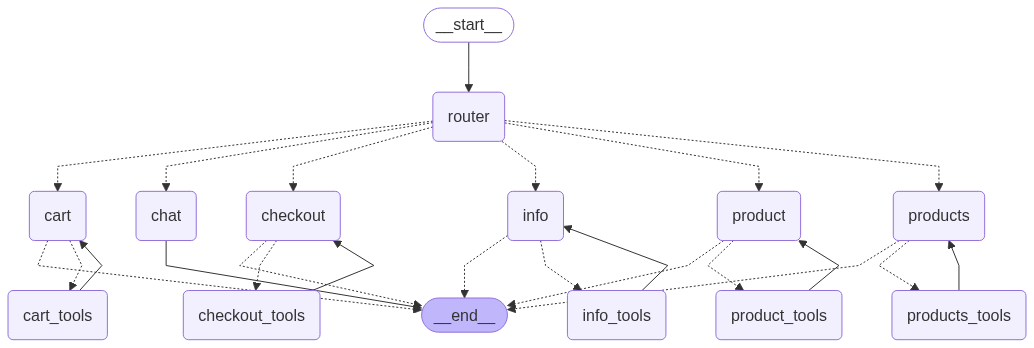
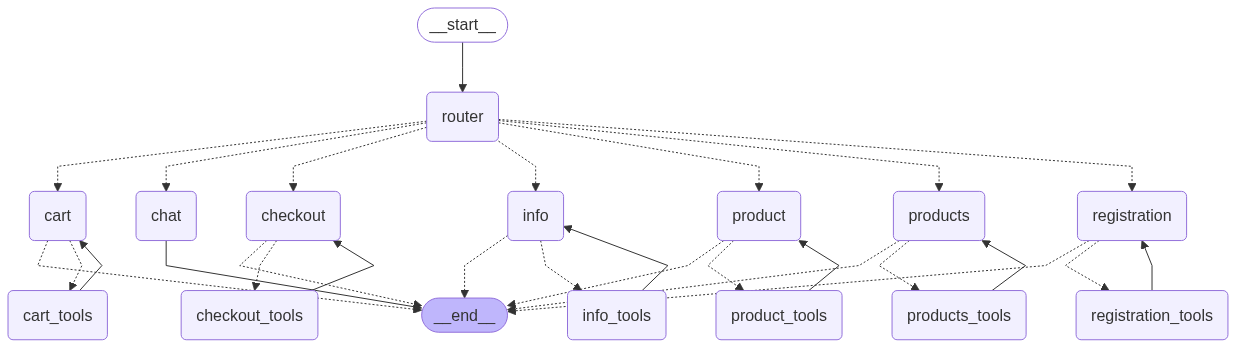
Registraton tools, and messages display

diff --git a/api/src/agents/agents.py b/api/src/agents/agents.py
@@ -1,4 +1,3 @@
-import asyncio
 from enum import Enum
 from typing import Any, AsyncGenerator, Dict, Tuple, cast
 
@@ -13,6 +12,8 @@ from agents.product.productAgent import ProductAgent
 from agents.product.productTools import Product_tools
 from agents.products.productsAgent import ProductsAgent
 from agents.products.productsTools import Products_tools
+from agents.registration.registerationTools import Registration_tools
+from agents.registration.registrationAgent import RegistrationAgent
 from agents.router.routerAgent import RouterAgent, Routes
 from domain.state import GlobalState
 from langchain_core.messages import AIMessage
@@ -24,6 +25,7 @@ from langgraph.prebuilt import ToolNode
 
 
 class Tools(Enum):
+    REGISTRATION = "registration_tools"
     PRODUCTS = "products_tools"
     PRODUCT = "product_tools"
     INFO = "info_tools"
@@ -68,6 +70,10 @@ class Agents:
     def _addNodes(self):
         self.state_graph.add_node(Routes.ROUTER.value, self.router.create)
         self.state_graph.add_node(
+            Routes.REGISTRATION.value,
+            RegistrationAgent(self.model, self.api_key).create,
+        )
+        self.state_graph.add_node(
             Routes.PRODUCTS.value, ProductsAgent(self.model, self.api_key).create
         )
         self.state_graph.add_node(
@@ -87,12 +93,14 @@ class Agents:
         )
 
     def _addToolNodes(self):
+        registration_tools_node = ToolNode(tools=Registration_tools)
         products_tools_node = ToolNode(tools=Products_tools)
         product_tool_node = ToolNode(tools=Product_tools)
         info_tool_node = ToolNode(tools=Info_tools)
         checkout_tool_node = ToolNode(tools=Checkout_tools)
         cart_tool_node = ToolNode(tools=Cart_tools)
 
+        self.state_graph.add_node(Tools.REGISTRATION.value, registration_tools_node)
         self.state_graph.add_node(Tools.PRODUCTS.value, products_tools_node)
         self.state_graph.add_node(Tools.PRODUCT.value, product_tool_node)
         self.state_graph.add_node(Tools.INFO.value, info_tool_node)
@@ -105,6 +113,7 @@ class Agents:
             Routes.ROUTER.value,
             self.router.router_conditional_edge,
             {
+                Routes.REGISTRATION.value: Routes.REGISTRATION.value,
                 Routes.PRODUCT.value: Routes.PRODUCT.value,
                 Routes.PRODUCTS.value: Routes.PRODUCTS.value,
                 Routes.CART.value: Routes.CART.value,
@@ -117,6 +126,7 @@ class Agents:
     """ Helpers """
 
     def _addToolsEdges(self):
+        self._addToolsEdge(Routes.REGISTRATION, Tools.REGISTRATION)
         self._addToolsEdge(Routes.PRODUCTS, Tools.PRODUCTS)
         self._addToolsEdge(Routes.PRODUCT, Tools.PRODUCT)
         self._addToolsEdge(Routes.INFO, Tools.INFO)
@@ -124,6 +134,7 @@ class Agents:
         self._addToolsEdge(Routes.CART, Tools.CART)
 
     def _addToolsEdge(self, route: Routes, tool: Tools):
+        print(f"Adding tool edge for {route.value} with tool {tool.value}")
         self.state_graph.add_conditional_edges(
             route.value,
             self._custom_route_tools(tool.value),
@@ -154,7 +165,17 @@ class Agents:
         aiMessage = cast(AIMessage, metadata[0])
         content = cast(str, aiMessage.content)
 
+        node_names = [route.value for route in Routes] + [tool.value for tool in Tools]
+        if content in node_names:
+            return None, None
+
+        if hasattr(aiMessage, "tool_calls") and len(aiMessage.tool_calls) > 0:
+            return None, None
+
         if content == "" or content == "chat":
+            return None, None
+
+        if hasattr(aiMessage, "tool_call_id") and aiMessage.tool_call_id:
             return None, None
 
         return {"id": messageId, "role": "assistant", "content": content}, None

diff --git a/api/src/agents/registration/registrationPrompt.py b/api/src/agents/registration/registrationPrompt.py
@@ -1,0 +1,39 @@
+class RegistrationPrompts:
+    def __init__(self):
+        self.system_prompt = """You are a specialized AI agent responsible for the user registration process in an e-commerce store. Your task is to guide the user through creating a new account, collecting necessary data(email, password), and informing them about the registration status.
+            **Your responses should be concise and directly related to the registration process.**
+
+            **Instructions: **
+
+            1. ** Initiating Registration: **
+                * If the user requests registration and has not yet provided data, ask for their email address and password.
+                * Example: "To create an account, please provide your email address and password."
+
+            2. ** Processing Registration Data: **
+                * Once the user provides an email address and password, attempt to process the registration.
+
+            3. ** Email Validation: **
+                * If the provided email address is invalid(e.g., missing "@" or domain), inform them of the error and ask for a correct address.
+                * Example: "The email address provided is invalid. Please provide a correct email address."
+
+            4. ** Password Validation: **
+                * If the password is too weak(e.g., too short, missing special characters, upper/lower case letters – * adjust criteria to actual system requirements*), inform them of the error and ask for a stronger password.
+                * Example: "The password is too weak. Please ensure it has at least 8 characters, includes uppercase and lowercase letters, numbers, and special characters."
+
+            5. ** Successful Registration: **
+                * If the registration is successful, inform the user of the success.
+                * Example: "Your account has been successfully created! You can now log in."
+
+            6. ** Other Registration Errors(e.g., email already exists): **
+                * If another general error occurs during registration(e.g., the email is already registered), inform the user.
+                * Example: "There was a problem during registration. This email address might already be taken, or please try again later."
+
+            7. ** Misunderstanding Intent: **
+                * If the user's query is not directly related to registration, but the router has directed it to this component, you can ask for clarification.
+                * Example: "I'm here to help you with registration. Do you want to create a new account?"
+
+            **Remember to respond only with the content of the message, without additional comments or introductions.**
+            """
+
+    def get_system_prompt(self):
+        return self.system_prompt

diff --git a/api/src/agents/router/routerPrompts.py b/api/src/agents/router/routerPrompts.py
@@ -1,4 +1,3 @@
-
 class RouterPrompts:
     def __init__(self):
         self.systemPrompt = """You are an AI router for an e-commerce agent. Your role is to analyze the ongoing conversation history between the user and the agent, and determine the most appropriate next step for the conversation.
@@ -8,6 +7,7 @@ class RouterPrompts:
         Here are the available nodes and their responsibilities:
 
         * **info**: Handles general inquiries about the store, shipping policies, returns, order status (if not specifically related to a product), payment methods, and other non-product specific information.
+        * **registration** : Manages user registration, account creation, and related inquiries (e.g., "how do I create an account?," "I forgot my password," "how do I update my profile?").
         * **products**: Manages requests for searching, Browse, or filtering products (e.g., "show me sneakers," "what are your bestsellers," "filter by size").
         * **product**: Focuses on inquiries about a *specific* product that has been identified or is currently being discussed (e.g., "tell me more about this shirt," "what colors does the XYZ phone come in," "is the red dress available in size M?").
         * **cart**: Deals with actions and inquiries related to the user's shopping cart (e.g., "add this to my cart," "what's in my cart," "remove item from cart," "how much is my cart?").

diff --git a/api/src/agents/registration/registerationTools.py b/api/src/agents/registration/registerationTools.py
@@ -1,0 +1,37 @@
+from agents.registration.registrationService import (is_email,
+                                                     is_strong_password)
+from langchain_core.tools import tool
+from pydantic import BaseModel, Field
+
+
+class RegistrationForm(BaseModel):
+    email: str = Field(
+        description="The search query for products, e.g., 'skirt'",
+    )
+    password: str = Field(
+        description="The page number for pagination, e.g., 1",
+    )
+
+
+@tool("register_new_user", args_schema=RegistrationForm, return_direct=True)
+def registration(email: str, password: str) -> str:
+    """
+    Register a new user with the provided email and password.
+    """
+
+    if not email or not password:
+        return "Email and password are required for registration."
+
+    if is_email(email) is False:
+        return "Invalid email format. Please provide a valid email address."
+
+    if is_strong_password(password) is False:
+        return (
+            "Weak password. Please provide a stronger password that meets the criteria."
+        )
+
+    # In a real application, you would save the user to a database here
+    return f"User registered successfully with email: {email}"
+
+
+Registration_tools = [registration]

diff --git a/api/src/agents/registration/registrationAgent.py b/api/src/agents/registration/registrationAgent.py
@@ -1,5 +1,7 @@
-from agents.product.productTools import Product_tools
+from agents.registration.registerationTools import Registration_tools
+from agents.registration.registrationPrompt import RegistrationPrompts
 from domain.state import GlobalState
+from langchain_core.messages import SystemMessage
 from langchain_google_genai import ChatGoogleGenerativeAI
 
 
@@ -7,6 +9,7 @@ class RegistrationAgent:
     def __init__(self, model: str, api_key: str):
         self.model = model
         self.api_key = api_key
+        self.prompts = RegistrationPrompts()
 
         self.setup_llm()
 
@@ -19,4 +22,4 @@ class RegistrationAgent:
             temperature=0,
             max_retries=2,
             google_api_key=self.api_key,
-        ).bind_tools(Product_tools)
+        ).bind_tools(Registration_tools)

diff --git a/api/src/agents/router/routerAgent.py b/api/src/agents/router/routerAgent.py
@@ -4,10 +4,10 @@ from agents.router.routerPrompts import RouterPrompts
 from domain.state import GlobalState
 from langchain_core.messages import SystemMessage
 from langchain_google_genai import ChatGoogleGenerativeAI
-from langgraph.constants import END
 
 
 class Routes(Enum):
+    REGISTRATION = "registration"
     PRODUCT = "product"
     PRODUCTS = "products"
     CART = "cart"
@@ -49,8 +49,7 @@ class RouterAgent:
         router_state_dict = state["routerState"]
         next_node = router_state_dict["nextNode"]
         shouldRedirect = (
-            next_node in [
-                e.value for e in Routes] and next_node != Routes.ROUTER.value
+            next_node in [e.value for e in Routes] and next_node != Routes.ROUTER.value
         )
 
         if shouldRedirect:

diff --git a/api/src/agents/registration/registrationService.py b/api/src/agents/registration/registrationService.py
@@ -1,0 +1,25 @@
+import re
+
+
+def is_email(email_string):
+    pattern = r"^[a-zA-Z0-9._%+-]+@[a-zA-Z0-9.-]+\.[a-zA-Z]{2,}$"
+    return re.match(pattern, email_string) is not None
+
+
+def is_strong_password(password):
+    if len(password) < 8:
+        return False
+
+    if not re.search(r"[A-Z]", password):
+        return False
+
+    if not re.search(r"[a-z]", password):
+        return False
+
+    if not re.search(r"[0-9]", password):
+        return False
+
+    if not re.search(r'[!@#$%^&*(),.?":{}|<>]', password):
+        return False
+
+    return True
